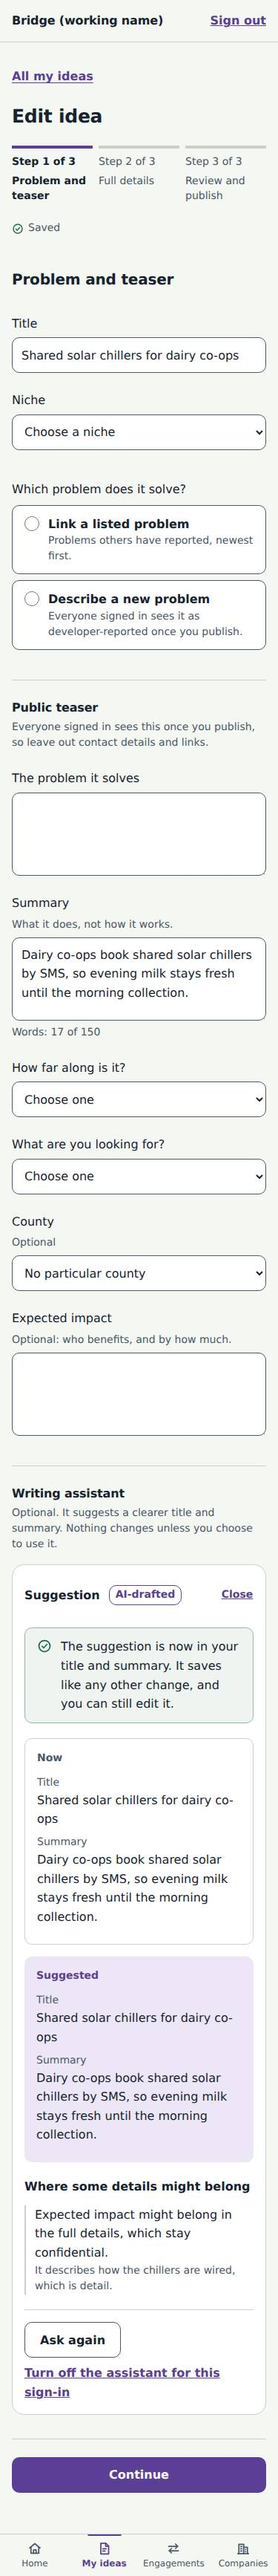
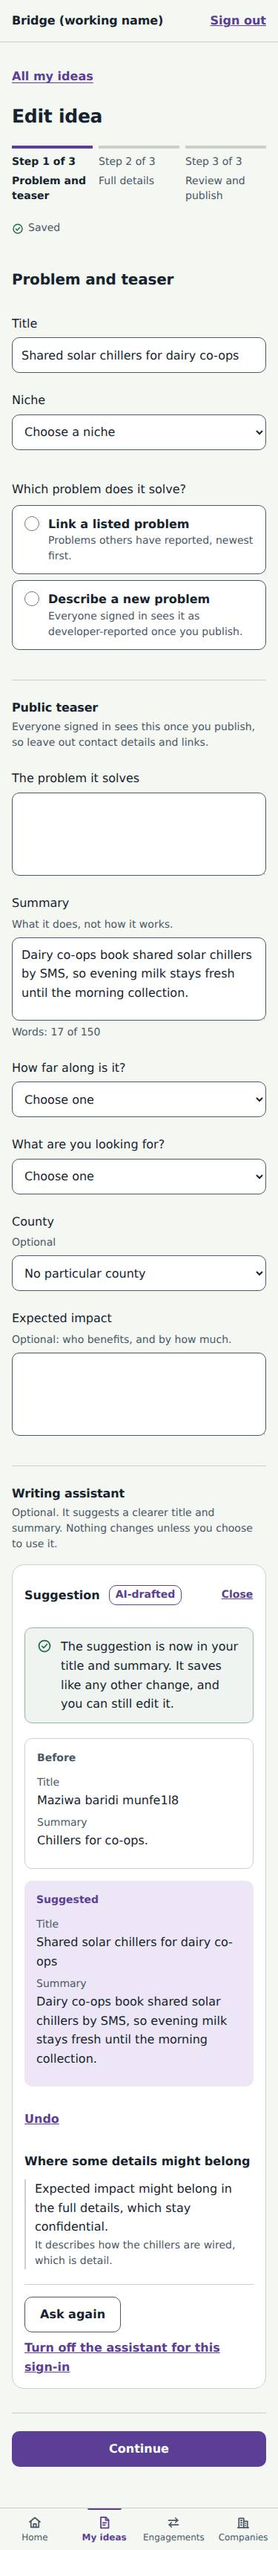
docs(REQ-PROP-05): P13-F review round 1 on the card; re-taken screenshots of the changed states

diff --git a/docs/platform/tasks/REQ-PROP-05.md b/docs/platform/tasks/REQ-PROP-05.md
@@ -215,3 +215,31 @@ client and carries no mapping tables); the typed client itself is the save chunk
    the screenshots (frontend-design skill used for the layout).
 4. Swahili strings are drafts (`[[SW-REVIEW]]`).
 
+## P13-F review round 1 (2026-09-30): reviewer PASS; ux-reviewer CHANGES_REQUIRED, fixed
+
+- **MAJOR 1 (focus lost):** a new ask focuses the panel heading (the editor's button is gone and "Ask again" hides while
+  the request runs); every refusal moves focus to its sentence (`fail()` in `AssistantPanel.tsx`). Tests: the first
+  ask refused, and "Ask again" with focus on the button, then refused (mutation: the heading focus removed turns 1 red;
+  the refusal focus removed turns 15 red).
+- **MAJOR 2 (text beside itself after "Use this"):** the owner's previous title and summary stay in the left column as
+  "Before", and an "Undo" link-button puts them back through the editor's `update` (so its autosave). Vitest and e2e
+  (the API's draft holds the suggestion after "Use this" and the owner's words again after "Undo").
+- MINORs: a new ask clears the last answer (a refused "Ask again" never shows the old suggestion; mutation: 1 red); a
+  local error boundary (`PanelBoundary` in `Editor.tsx`) turns a failed chunk load into `problem.network` beside the
+  button with focus on it, and the next press loads the module afresh (preloadable keeps a rejected load); the Suspense
+  fallback is `role="status"`; `editor/assistant-load.test.tsx` fails when `Editor.tsx` imports the panel or the
+  assistant's calls statically, and walks a failed load and the retry (mutation: no fresh load turns 1 red); after 409
+  `consent_text_changed` with a failed re-read, the outdated wording goes, the problem shows and "Turn on and ask" is
+  `aria-disabled` and inert until the panel reads the wording again; HTTP rows for a refused `GET /consent` on open
+  (503, 401, 409 `proposal_hidden`, offline), 401 `mfa_required`, a plain 429 and a refused `DELETE`.
+- Copy (`[[COPY-REVIEW]]`): `status.demo_fallback` "This demo has no AI model connected, so there is no suggestion.";
+  the panel heading is "Writing assistant's answer" unless a teaser is suggested ("Suggestion"); after turning off, the
+  footer action reads "Turn on and ask"; new `before`, `undo`, `undone`, `headingAnswer`.
+- Left as they are (orchestrator): the "(Tier 2)" consent wording (D-39 item 6, backend); the budget pass rule (D-28
+  addendum records the page-load reading).
+- Screenshots re-taken for the states that changed: `assistant-answer`, `assistant-applied` (Before and Undo),
+  `assistant-off` ("Turn on and ask"), each at 375 and 1440 px.
+- JS budget after the round (same method as above): page load (panel closed) **146,247** (+433 over `c6bb896`; the
+  error boundary is 169 of it), through the first edit **148,284**, after pressing "Suggest a clearer teaser" **151,227**
+  (panel chunk 2,943 B).
+
